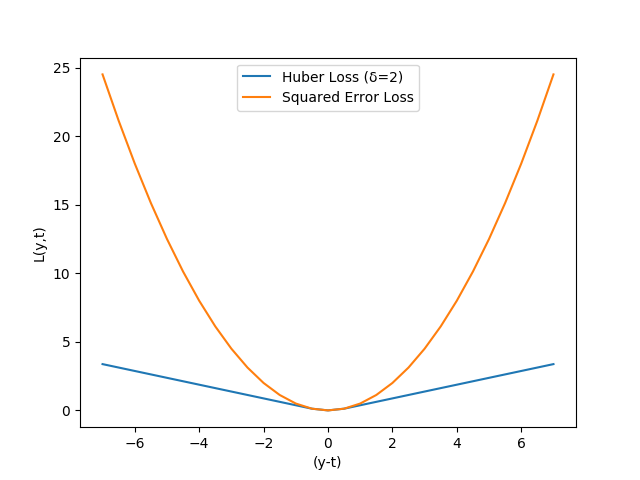
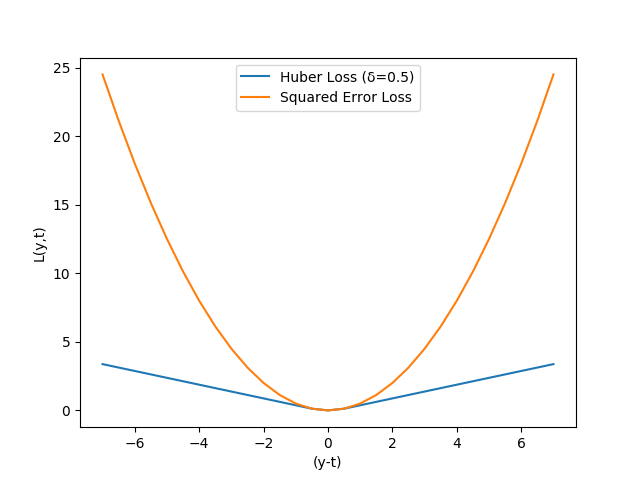
Update legend in Huber Loss graphs

Changed region(s): [[0.4375, 0.125, 0.6562, 0.2188]]

diff --git a/homework/hw3/q1a.py b/homework/hw3/q1a.py
@@ -4,14 +4,18 @@ import numpy as np
 
 x = np.arange(-7, 7.5, 0.5)
 
-delta = 3.0
-huber = np.piecewise(x,
-                    [abs(x) <= delta, abs(x) > delta],
-                    [lambda x: 1/2*x**2, lambda x: delta*(abs(x) - delta/2)])
-plt.plot(x, huber, label="Huber Loss (δ=2)")
-plt.plot(x, (1/2)*x**2, label="Squared Error Loss")
-plt.xlabel("(y-t)")
-plt.ylabel("L(y,t)")
-plt.legend()
-plt.savefig("q1a_d3.0.png")
-plt.show()
+deltas = [0.5, 1.0, 3.0]
+for delta in deltas:
+    huber = np.piecewise(x,
+                        [abs(x) <= delta, abs(x) > delta],
+                        [lambda x: 1/2*x**2, lambda x: delta*(abs(x) - delta/2)])
+    label = "Huber Loss (δ=" + str(delta) + ")"
+    plt.plot(x, huber, label=label)
+    plt.plot(x, (1/2)*x**2, label="Squared Error Loss")
+    plt.xlabel("(y-t)")
+    plt.ylabel("L(y,t)")
+    plt.legend()
+    filename = "q1a_d" + str(delta) + ".png"
+    plt.savefig(filename)
+    # plt.show()
+    plt.clf()
